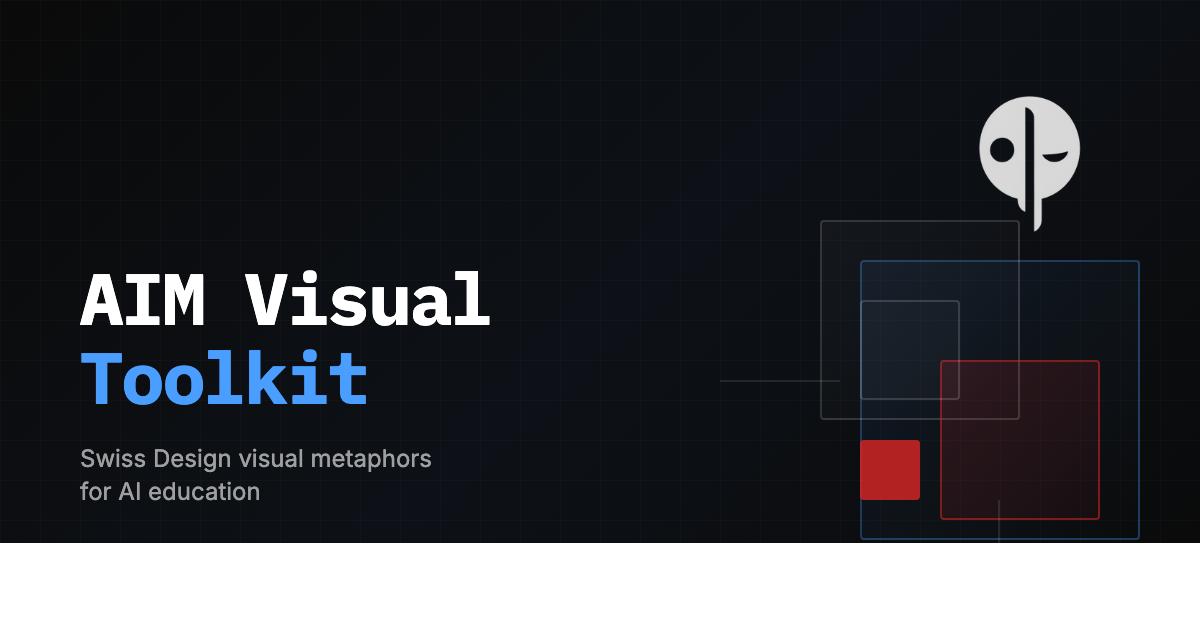
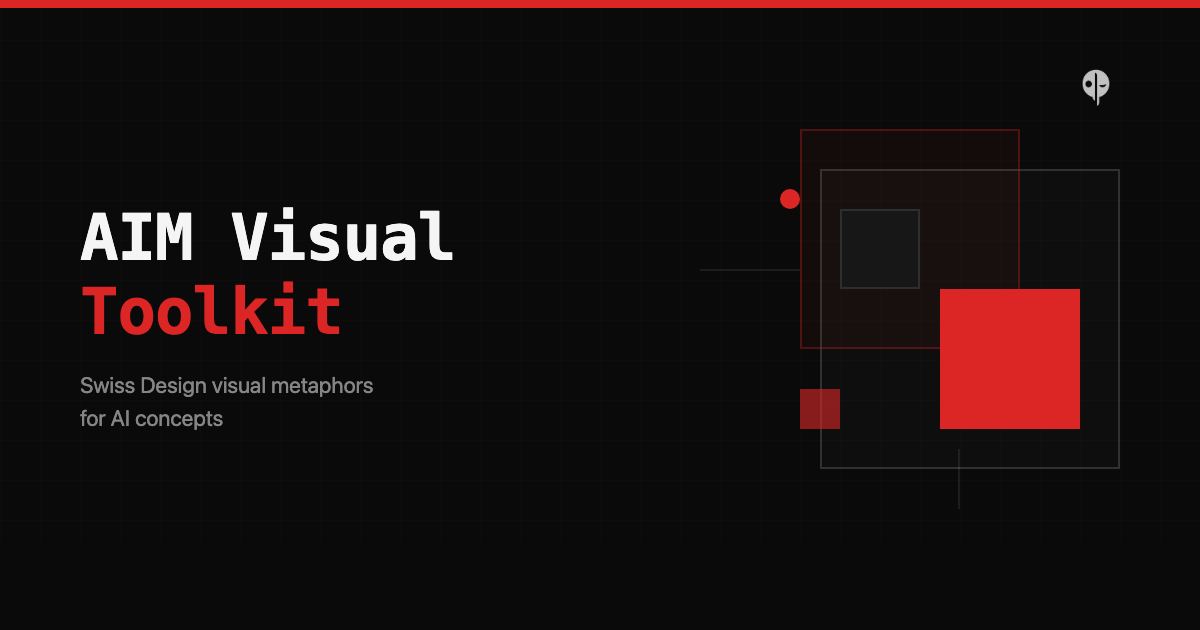
fix: Redesign OG cover with Swiss Design red accent
- Remove white bar/background
- Red accent color instead of blue
- Red top bar (Swiss Design element)
- Grid pattern with red tint
- Larger red rectangle as main visual
- Update URL to actual Netlify domain

diff --git a/public/og-generator.html b/public/og-generator.html
@@ -22,12 +22,22 @@
 
     body {
       font-family: 'Inter', -apple-system, BlinkMacSystemFont, sans-serif;
-      background: linear-gradient(135deg, #0a0a0a 0%, #0d1117 50%, #0a0a0a 100%);
+      background: #0a0a0a;
       color: #ffffff;
       position: relative;
     }
 
-    /* Subtle grid pattern */
+    /* Red accent bar at top - Swiss Design */
+    .top-bar {
+      position: absolute;
+      top: 0;
+      left: 0;
+      width: 100%;
+      height: 8px;
+      background: #DC2626;
+    }
+
+    /* Subtle grid pattern with red tint */
     .grid-pattern {
       position: absolute;
       top: 0;
@@ -35,8 +45,8 @@
       width: 100%;
       height: 100%;
       background-image:
-        linear-gradient(rgba(255, 255, 255, 0.02) 1px, transparent 1px),
-        linear-gradient(90deg, rgba(255, 255, 255, 0.02) 1px, transparent 1px);
+        linear-gradient(rgba(220, 38, 38, 0.03) 1px, transparent 1px),
+        linear-gradient(90deg, rgba(220, 38, 38, 0.03) 1px, transparent 1px);
       background-size: 40px 40px;
       pointer-events: none;
     }
@@ -60,9 +70,9 @@
     }
 
     .logo {
-      width: 180px;
-      height: auto;
-      opacity: 0.9;
+      width: 48px;
+      height: 48px;
+      opacity: 0.8;
     }
 
     /* Main content */
@@ -71,109 +81,125 @@
       justify-content: space-between;
       align-items: center;
       flex: 1;
-      margin-top: -40px;
+      margin-top: -20px;
     }
 
     .content {
-      max-width: 580px;
+      max-width: 550px;
     }
 
     .title {
       font-family: 'IBM Plex Mono', monospace;
-      font-size: 72px;
+      font-size: 64px;
       font-weight: 700;
-      line-height: 1.1;
-      letter-spacing: -2px;
-      margin-bottom: 24px;
+      line-height: 1.15;
+      letter-spacing: -1px;
+      margin-bottom: 20px;
+      color: #f5f5f5;
     }
 
     .title .accent {
-      color: #4a9eff;
+      color: #DC2626;
     }
 
     .subtitle {
-      font-size: 24px;
+      font-size: 22px;
       font-weight: 400;
-      color: rgba(255, 255, 255, 0.6);
-      line-height: 1.4;
-      margin-bottom: 32px;
+      color: rgba(255, 255, 255, 0.5);
+      line-height: 1.5;
     }
 
-    /* Geometric Swiss design element */
+    /* Geometric Swiss design element - more red */
     .visual {
       position: relative;
-      width: 400px;
-      height: 400px;
-      margin-right: -20px;
+      width: 420px;
+      height: 420px;
     }
 
     .rect {
       position: absolute;
-      border: 2px solid rgba(255, 255, 255, 0.15);
-      border-radius: 4px;
+      border: 2px solid rgba(255, 255, 255, 0.1);
     }
 
+    /* Main frame */
     .rect-1 {
-      width: 280px;
-      height: 280px;
+      width: 300px;
+      height: 300px;
       top: 60px;
       right: 0;
-      background: linear-gradient(135deg, rgba(74, 158, 255, 0.08) 0%, transparent 100%);
-      border-color: rgba(74, 158, 255, 0.3);
-    }
-
-    .rect-2 {
-      width: 200px;
-      height: 200px;
-      top: 20px;
-      right: 120px;
-      background: linear-gradient(135deg, rgba(255, 255, 255, 0.03) 0%, transparent 100%);
-    }
-
-    .rect-3 {
-      width: 160px;
-      height: 160px;
-      top: 160px;
-      right: 40px;
-      background: linear-gradient(135deg, rgba(220, 38, 38, 0.15) 0%, rgba(220, 38, 38, 0.05) 100%);
-      border-color: rgba(220, 38, 38, 0.5);
-    }
-
-    .rect-4 {
-      width: 100px;
-      height: 100px;
-      top: 100px;
-      right: 180px;
+      border-color: rgba(255, 255, 255, 0.15);
       background: rgba(255, 255, 255, 0.02);
     }
 
-    .rect-5 {
-      width: 60px;
-      height: 60px;
-      top: 240px;
-      right: 220px;
-      background: rgba(220, 38, 38, 0.8);
+    /* Secondary frame */
+    .rect-2 {
+      width: 220px;
+      height: 220px;
+      top: 20px;
+      right: 100px;
+      border-color: rgba(220, 38, 38, 0.3);
+      background: rgba(220, 38, 38, 0.05);
+    }
+
+    /* Red accent square - solid */
+    .rect-3 {
+      width: 140px;
+      height: 140px;
+      top: 180px;
+      right: 40px;
+      background: #DC2626;
       border: none;
     }
 
-    /* Decorative lines */
+    /* Small dark square */
+    .rect-4 {
+      width: 80px;
+      height: 80px;
+      top: 100px;
+      right: 200px;
+      background: #171717;
+      border-color: rgba(255, 255, 255, 0.1);
+    }
+
+    /* Tiny accent */
+    .rect-5 {
+      width: 40px;
+      height: 40px;
+      top: 280px;
+      right: 280px;
+      background: rgba(220, 38, 38, 0.6);
+      border: none;
+    }
+
+    /* Circle accent */
+    .circle {
+      position: absolute;
+      width: 20px;
+      height: 20px;
+      border-radius: 50%;
+      background: #DC2626;
+      top: 80px;
+      right: 320px;
+    }
+
+    /* Lines */
     .line {
       position: absolute;
-      background: rgba(255, 255, 255, 0.1);
+      background: rgba(255, 255, 255, 0.08);
     }
 
     .line-h {
-      width: 120px;
+      width: 100px;
       height: 2px;
-      top: 180px;
-      right: 300px;
+      top: 160px;
+      right: 320px;
     }
 
     .line-v {
       width: 2px;
-      height: 80px;
-      top: 300px;
-      right: 140px;
+      height: 60px;
+      top: 340px;
+      right: 160px;
     }
 
     /* Footer */
@@ -185,24 +211,25 @@
 
     .url {
       font-family: 'IBM Plex Mono', monospace;
-      font-size: 20px;
+      font-size: 18px;
       font-weight: 500;
-      color: rgba(255, 255, 255, 0.5);
+      color: rgba(255, 255, 255, 0.4);
       letter-spacing: 0.5px;
     }
 
     .attribution {
-      font-size: 16px;
-      color: rgba(255, 255, 255, 0.4);
+      font-size: 14px;
+      color: rgba(255, 255, 255, 0.35);
     }
 
     .attribution span {
-      color: rgba(220, 38, 38, 0.8);
+      color: #DC2626;
       font-weight: 600;
     }
   </style>
 </head>
 <body>
+  <div class="top-bar"></div>
   <div class="grid-pattern"></div>
 
   <div class="container">
@@ -213,22 +240,23 @@
     <main class="main">
       <div class="content">
         <h1 class="title">AIM Visual<br><span class="accent">Toolkit</span></h1>
-        <p class="subtitle">Swiss Design visual metaphors<br>for AI education</p>
+        <p class="subtitle">Swiss Design visual metaphors<br>for AI concepts</p>
       </div>
 
       <div class="visual">
         <div class="rect rect-1"></div>
         <div class="rect rect-2"></div>
-        <div class="rect rect-3"></div>
         <div class="rect rect-4"></div>
+        <div class="rect rect-3"></div>
         <div class="rect rect-5"></div>
+        <div class="circle"></div>
         <div class="line line-h"></div>
         <div class="line line-v"></div>
       </div>
     </main>
 
     <footer class="footer">
-      <div class="url">visual.aimindset.org</div>
+      <div class="url">aimindset-visual.netlify.app</div>
       <div class="attribution">by <span>AI Mindset</span></div>
     </footer>
   </div>
